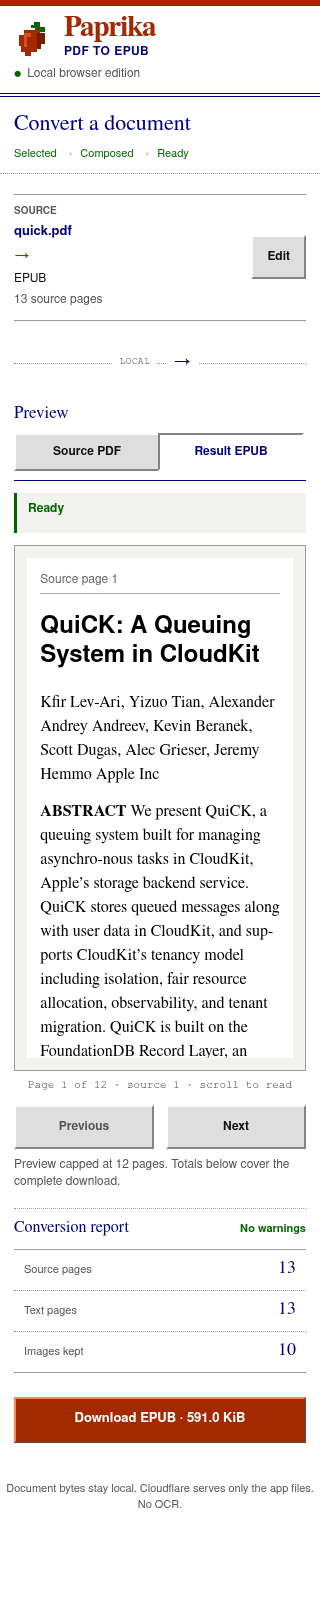
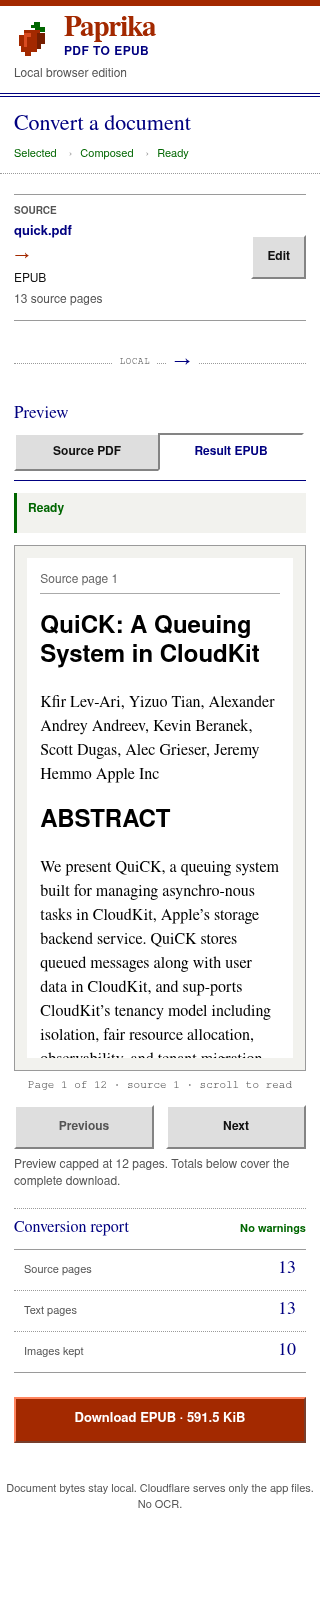
fix: remove decorative status indicator

Changed region(s): [[0.125, 0.5, 0.875, 0.6875], [0.1875, 0.0312, 0.2812, 0.0625], [0.3125, 0.0312, 0.375, 0.0625]]

diff --git a/scripts/e2e/browser-smoke.spec.ts b/scripts/e2e/browser-smoke.spec.ts
@@ -15,7 +15,13 @@ test.beforeEach(async ({ page }) => {
 test("serves the task-first local conversion workbench", async ({ page }) => {
   await expect(page).toHaveTitle(/Paprika/);
   await expect(page.locator(".wordmark")).toContainText("Paprika");
-  await expect(page.locator(".local-mode")).toHaveText(/local browser edition/i);
+  const editionLabel = page.locator(".edition-label");
+  await expect(editionLabel).toHaveText(/local browser edition/i);
+  await expect(editionLabel.locator("*")).toHaveCount(0);
+  const marker = await editionLabel.evaluate(
+    (element) => getComputedStyle(element, "::before").content,
+  );
+  expect(marker).toBe("none");
   await expect(page.getByRole("heading", { level: 1 })).toContainText("into a book");
   await expect(page.locator(".task-promise")).toContainText("PDF in. Reflowable EPUB out.");
   await expect(page.getByRole("region", { name: "Convert a document" })).toBeVisible();

diff --git a/web/src/index.html b/web/src/index.html
@@ -21,7 +21,7 @@
           <small>PDF to EPUB</small>
         </span>
       </a>
-      <p class="local-mode">Local browser edition</p>
+      <p class="edition-label">Local browser edition</p>
     </header>
 
     <main id="app-shell" class="app-shell" data-has-file="false" data-has-output="false" data-flow="empty">

diff --git a/web/src/styles.css b/web/src/styles.css
@@ -149,17 +149,11 @@ footer {
   text-transform: uppercase;
 }
 
-.local-mode {
+.edition-label {
   margin: 0;
   color: var(--muted);
   font-size: 12px;
   white-space: nowrap;
-}
-
-.local-mode::before {
-  margin-right: 6px;
-  color: var(--green);
-  content: "●";
 }
 
 .app-shell {

diff --git a/web/src/404.html b/web/src/404.html
@@ -17,7 +17,7 @@
           <small>PDF to EPUB</small>
         </span>
       </a>
-      <p class="local-mode">Local browser edition</p>
+      <p class="edition-label">Local browser edition</p>
     </header>
     <main class="not-found">
       <p class="error-code">Error 404</p>

diff --git a/DESIGN.md b/DESIGN.md
@@ -59,7 +59,7 @@ Paprika should feel like a well-made publishing utility on the 1997 web, not a s
 - `--paprika: #a32900` and `--paprika-dark: #751e00` identify the pepper mark, masthead, primary action, and reflowed output edge.
 - `--green: #006600`, `--error: #8b0000`, and `--warning: #765000` carry semantic state.
 
-Do not add decorative colors. Color never carries state alone; labels, borders, and position must also communicate it.
+Do not add decorative colors. Color never carries state alone; labels, borders, and position must also communicate it. Static edition and privacy metadata stay plain text; they never use status dots or health indicators.
 
 ### Shape and depth
 
